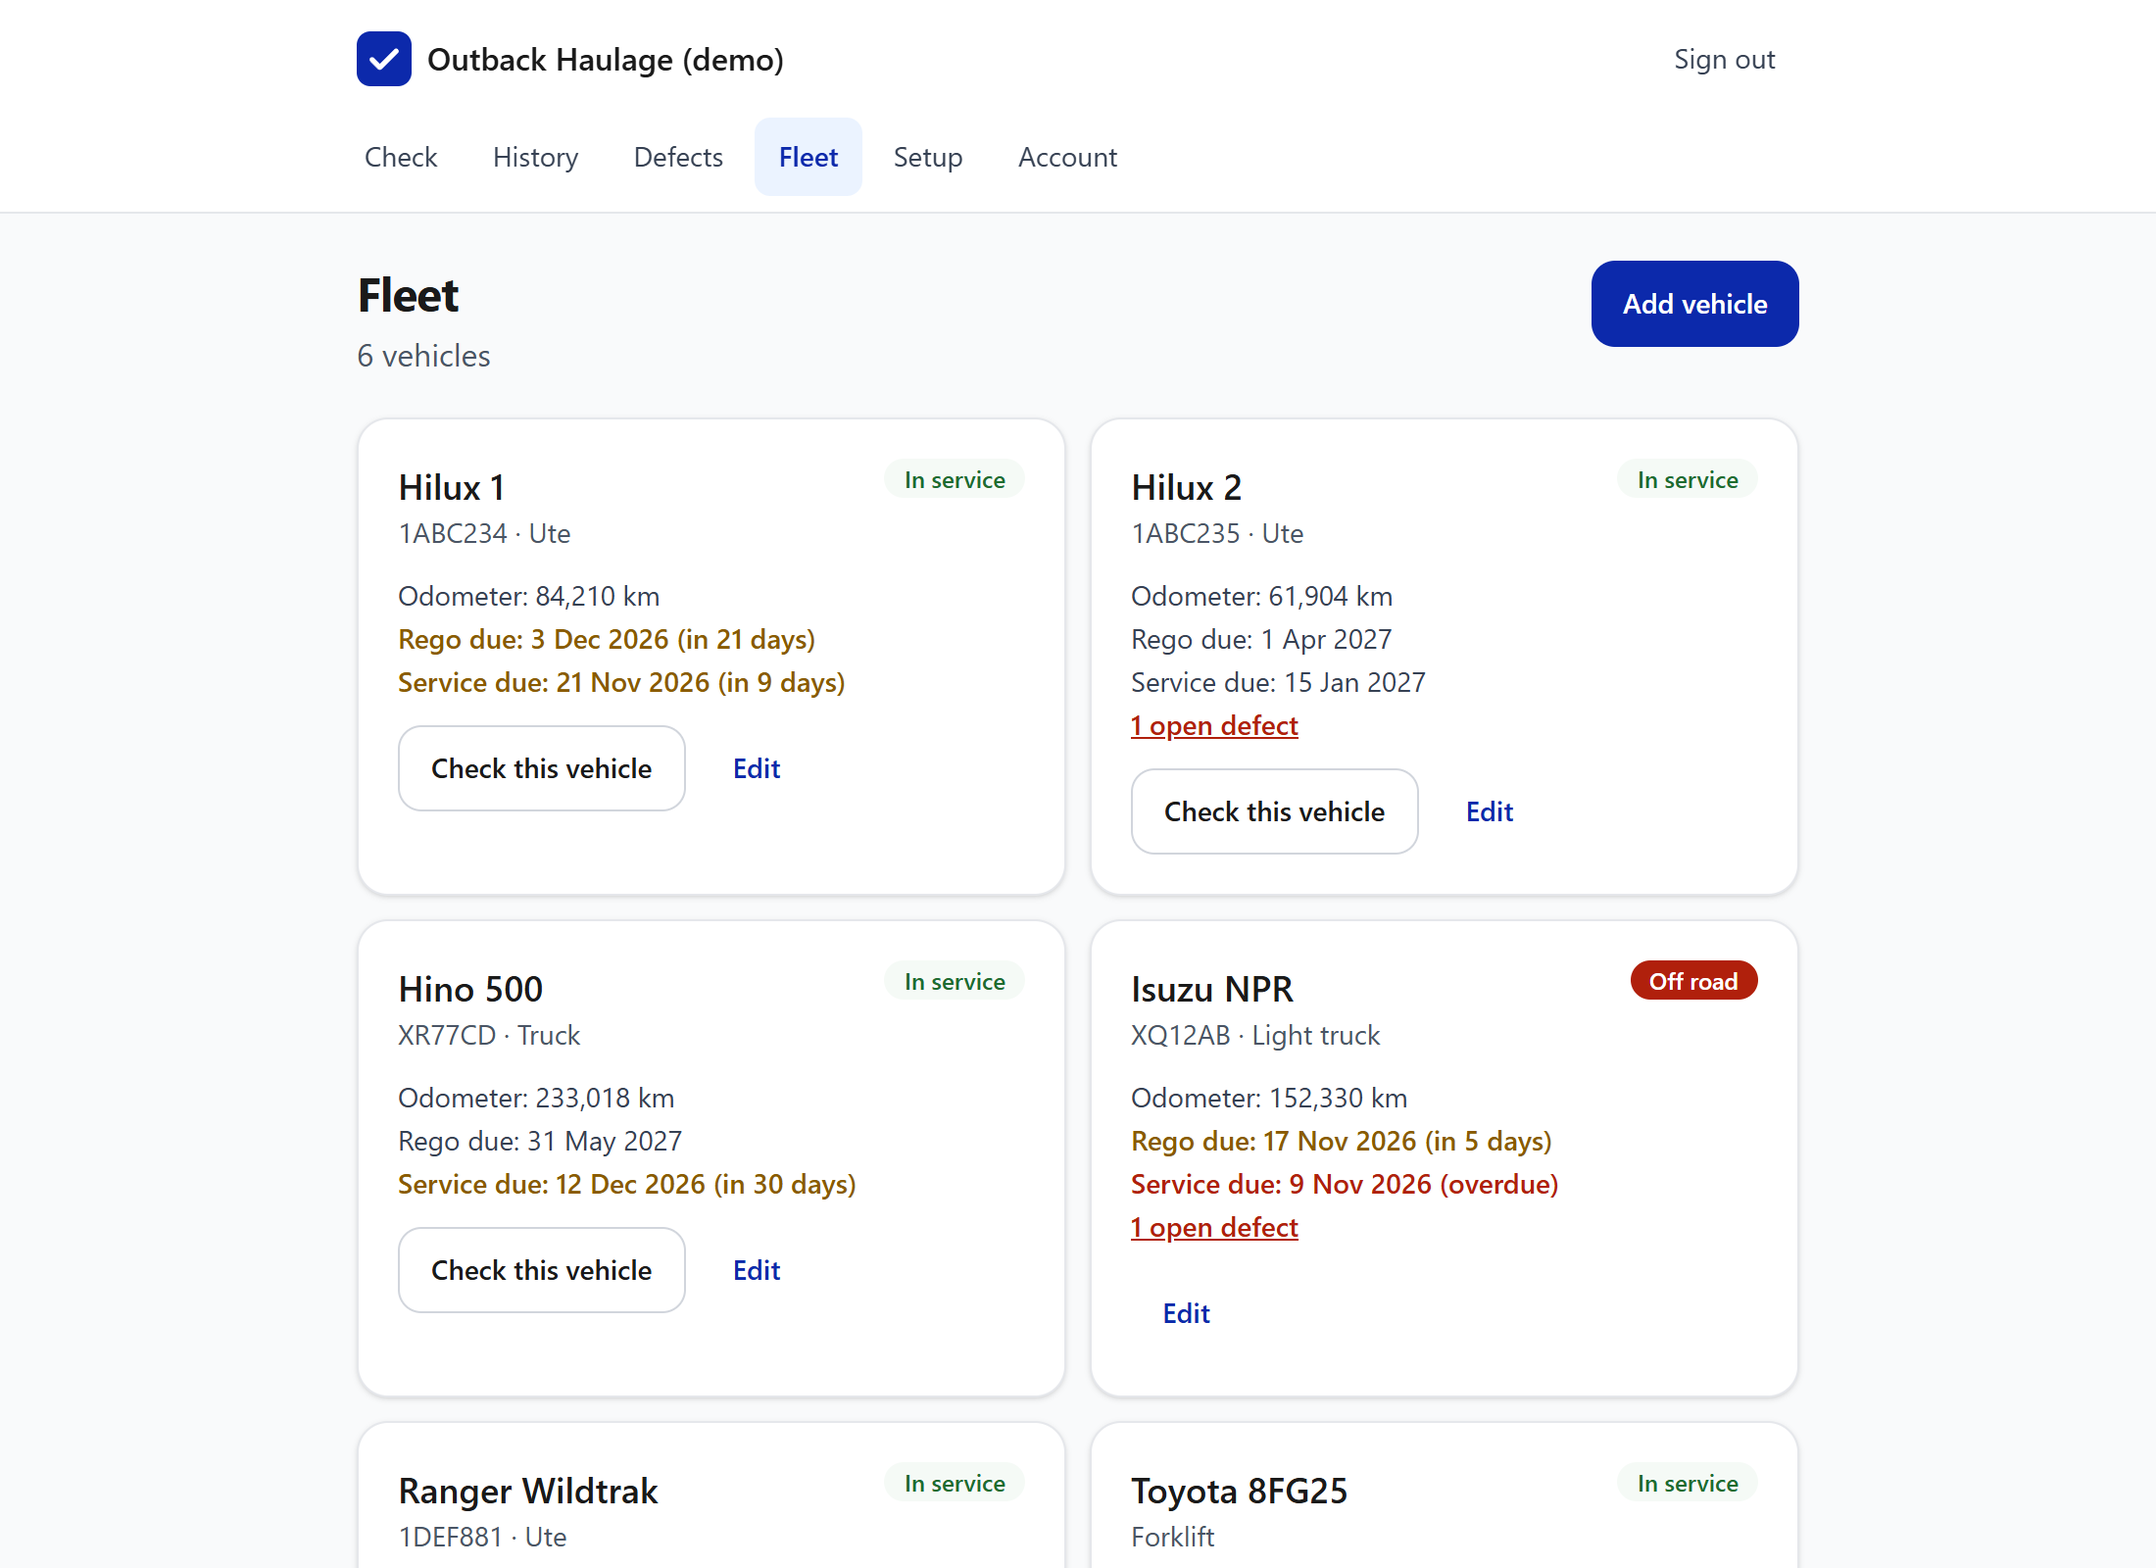
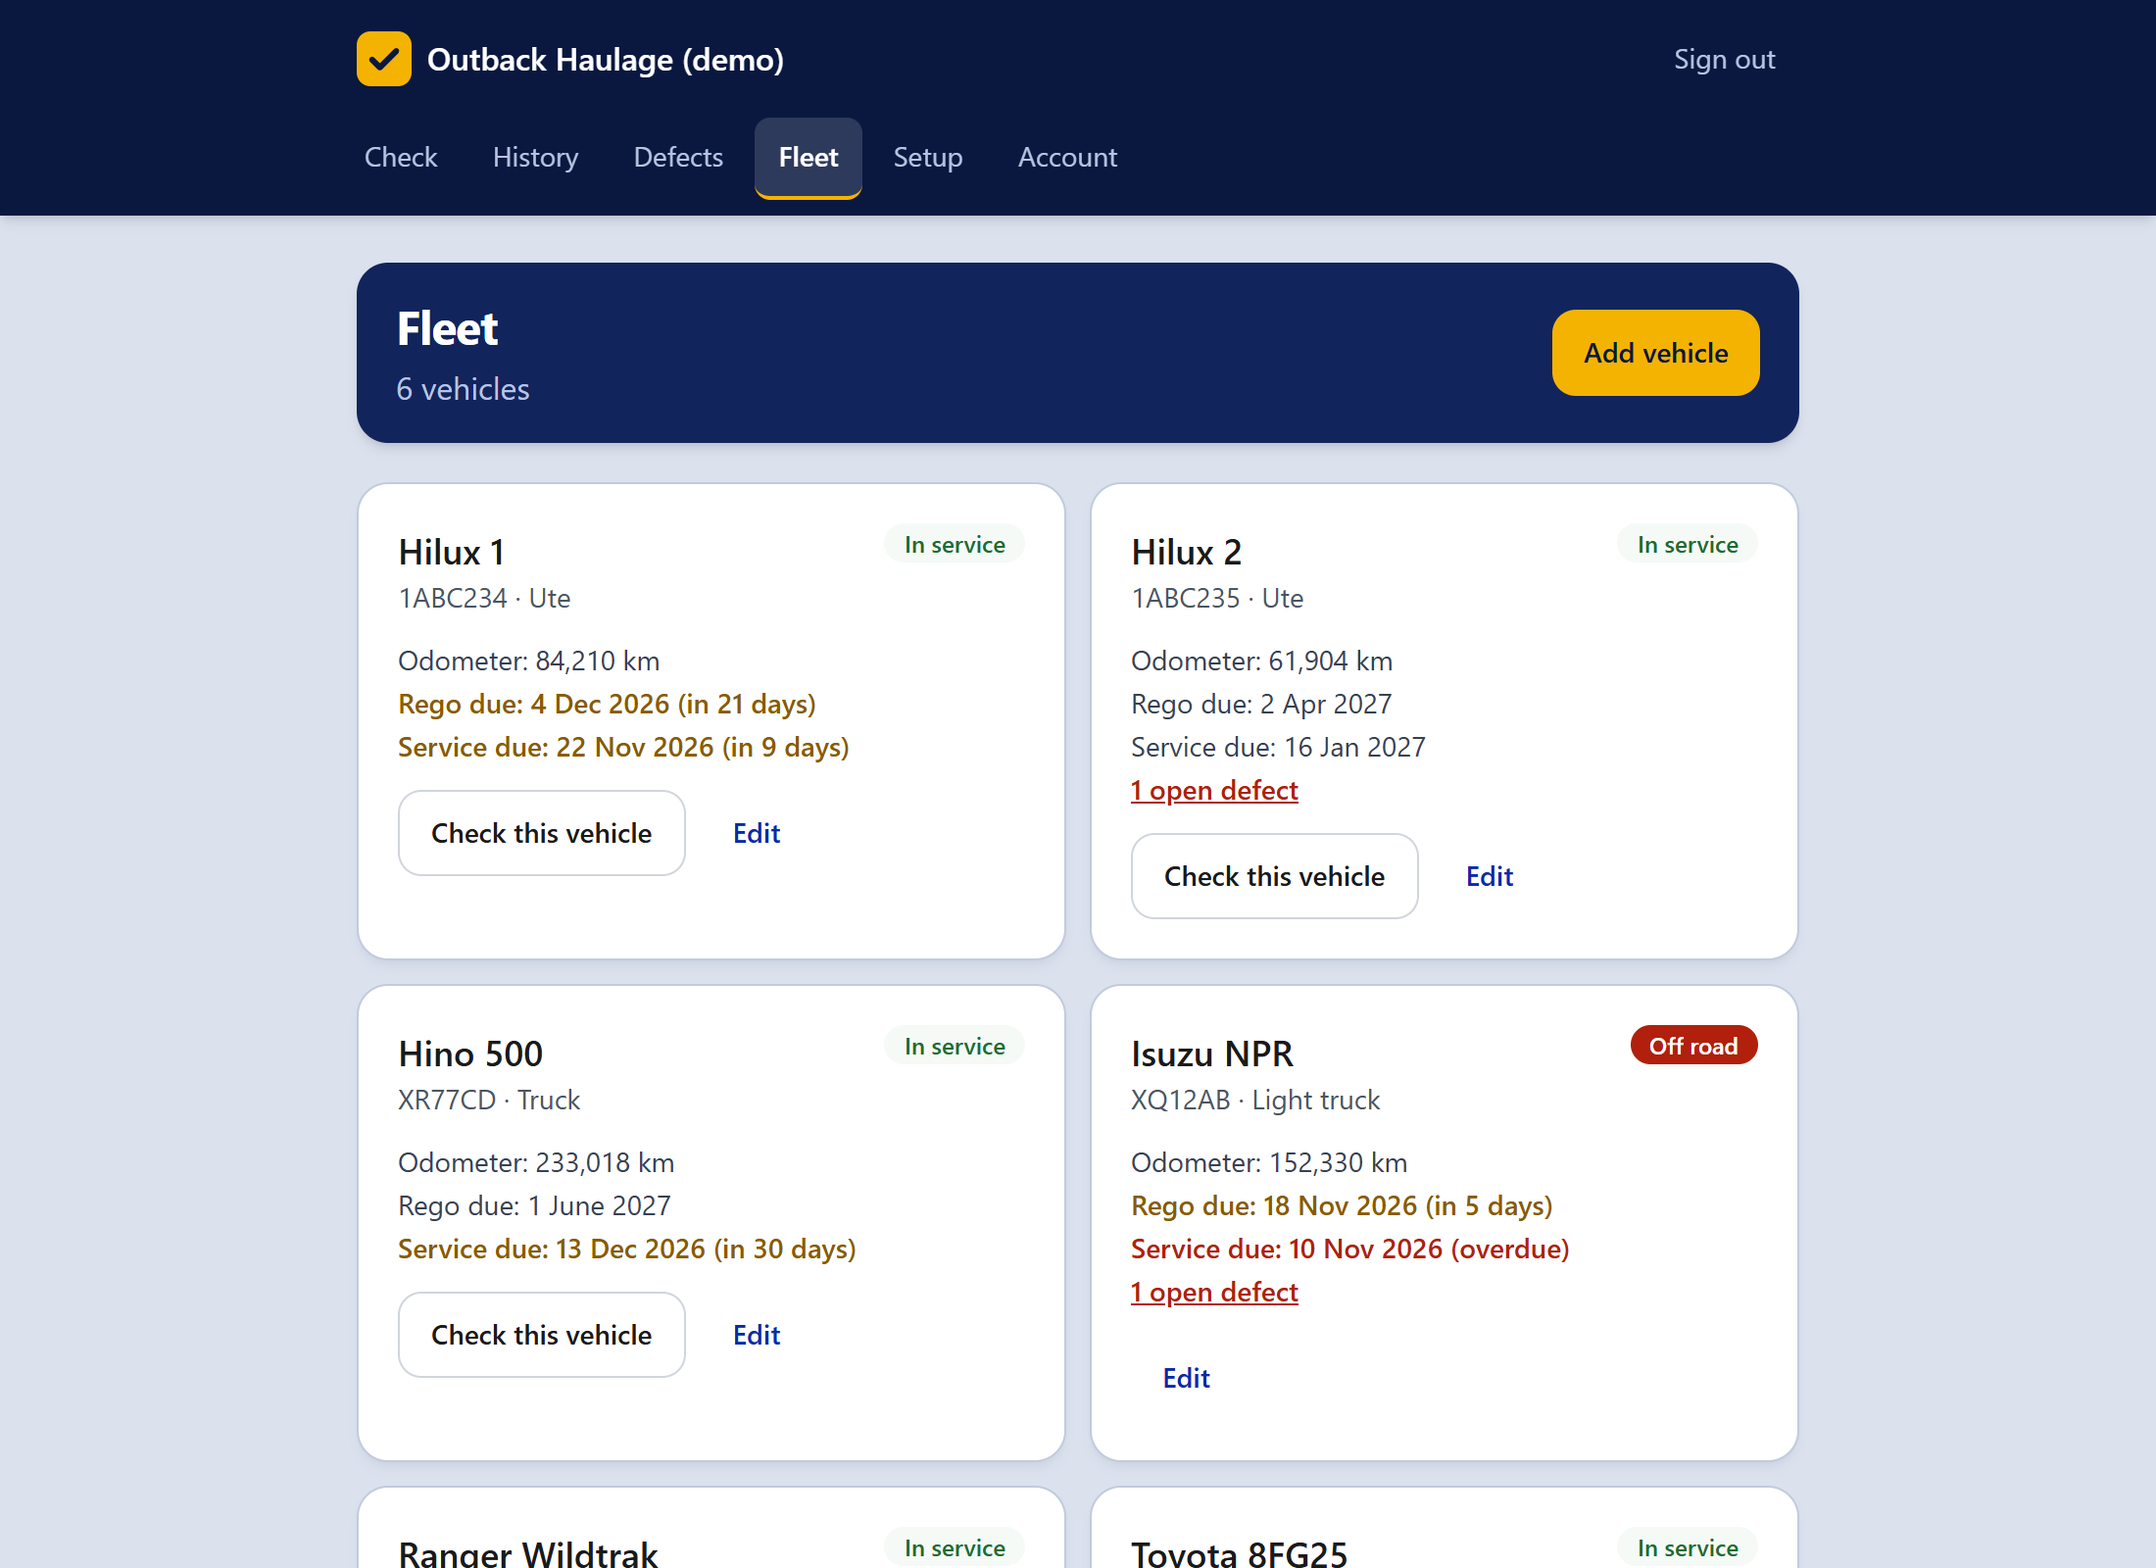
Bolder, darker design
Navy header and title banners, a safety-yellow accent and logo, a tinted page
background and stronger cards, so the app reads clearly outdoors and looks less
plain. Fleet uses the same title banner, with Add vehicle as a yellow button.
README screenshots are recaptured with `npm run screenshots`.

diff --git a/src/views/layout.tsx b/src/views/layout.tsx
@@ -40,14 +40,14 @@ export const Page: FC<PageProps> = ({ title, user, active, businessName, csrf, d
       <head>
         <meta charset="utf-8" />
         <meta name="viewport" content="width=device-width, initial-scale=1, viewport-fit=cover" />
-        <meta name="theme-color" content="#0c29ab" />
+        <meta name="theme-color" content="#0a1840" />
         <meta name="robots" content="noindex" />
         <title>{`${title} | ${businessName ?? words.appName}`}</title>
         <link rel="icon" href="/favicon.svg" type="image/svg+xml" />
         <link rel="stylesheet" href="/styles.css" />
         <script src="/app.js" defer></script>
       </head>
-      <body class="min-h-dvh bg-gray-50 text-ink antialiased">
+      <body class="min-h-dvh bg-canvas text-ink antialiased">
         <a
           href="#main"
           class="sr-only focus:not-sr-only focus:absolute focus:left-2 focus:top-2 focus:z-50 focus:rounded focus:bg-white focus:px-3 focus:py-2"
@@ -55,7 +55,7 @@ export const Page: FC<PageProps> = ({ title, user, active, businessName, csrf, d
           Skip to content
         </a>
         {demo ? (
-          <div class="bg-alert-50 px-4 py-2 text-center text-sm text-ink">
+          <div class="bg-accent px-4 py-2 text-center text-sm font-medium text-navy">
             Demo mode. Anything you change is wiped every night.
           </div>
         ) : null}
@@ -77,16 +77,16 @@ const Header: FC<{
 }> = ({ user, active, businessName, csrf }) => {
   const links = user && user.role ? NAV.filter((l) => l.show(user)) : [];
   return (
-    <header class="sticky top-0 z-40 border-b border-gray-200 bg-white/95 backdrop-blur">
+    <header class="sticky top-0 z-40 bg-navy text-white shadow-md">
       <div class="mx-auto flex max-w-3xl items-center justify-between gap-3 px-4 py-3">
-        <a href="/" class="flex min-w-0 items-center gap-2 font-semibold text-ink">
+        <a href="/" class="flex min-w-0 items-center gap-2 font-semibold text-white">
           <Logo />
           <span class="truncate">{businessName ?? words.appName}</span>
         </a>
         {user ? (
           <form method="post" action="/logout" class="shrink-0">
             <input type="hidden" name={CSRF_FIELD} value={csrf} />
-            <button type="submit" class="rounded-lg px-3 py-2 text-sm text-gray-700 hover:bg-gray-100">
+            <button type="submit" class="rounded-lg px-3 py-2 text-sm text-navy-200 hover:bg-white/10 hover:text-white">
               Sign out
             </button>
           </form>
@@ -102,8 +102,8 @@ const Header: FC<{
                   aria-current={active === l.key ? "page" : undefined}
                   class={
                     active === l.key
-                      ? "block whitespace-nowrap rounded-lg bg-primary-100 px-1 py-2.5 text-center text-[13px] font-semibold text-primary sm:px-3 sm:text-sm"
-                      : "block whitespace-nowrap rounded-lg px-1 py-2.5 text-center text-[13px] text-gray-700 hover:bg-gray-100 sm:px-3 sm:text-sm"
+                      ? "block whitespace-nowrap rounded-lg border-b-2 border-accent bg-white/15 px-1 py-2.5 text-center text-[13px] font-semibold text-white sm:px-3 sm:text-sm"
+                      : "block whitespace-nowrap rounded-lg border-b-2 border-transparent px-1 py-2.5 text-center text-[13px] text-navy-200 hover:bg-white/10 hover:text-white sm:px-3 sm:text-sm"
                   }
                 >
                   {l.label}
@@ -124,12 +124,12 @@ const Header: FC<{
 
 export const Logo: FC = () => (
   <svg width="28" height="28" viewBox="0 0 32 32" aria-hidden="true" class="shrink-0">
-    <rect width="32" height="32" rx="8" fill="#0c29ab" />
+    <rect width="32" height="32" rx="8" fill="#f5b301" />
     <path
       d="M9 16.5l4.5 4.5L23 11.5"
       fill="none"
-      stroke="#fff"
-      stroke-width="3"
+      stroke="#0a1840"
+      stroke-width="3.5"
       stroke-linecap="round"
       stroke-linejoin="round"
     />

diff --git a/src/views/components.tsx b/src/views/components.tsx
@@ -5,23 +5,29 @@ import { defectStatusLabel, severityLabel, vehicleStatusLabel } from "../labels"
 
 export const Csrf: FC<{ token: string }> = ({ token }) => <input type="hidden" name={CSRF_FIELD} value={token} />;
 
-export const H1: FC<{ children?: Child; sub?: string | undefined }> = ({ children, sub }) => (
-  <div class="mb-5">
-    <h1 class="text-2xl font-bold tracking-tight">{children}</h1>
-    {sub ? <p class="mt-1 text-gray-600">{sub}</p> : null}
+/** Page title banner. `action` is an optional button shown on the right, such as "Add vehicle". */
+export const H1: FC<{ children?: Child; sub?: string | undefined; action?: Child }> = ({ children, sub, action }) => (
+  <div class="mb-5 flex flex-wrap items-center justify-between gap-3 rounded-2xl bg-navy-800 px-5 py-4 text-white shadow-md">
+    <div class="min-w-0">
+      <h1 class="text-2xl font-bold tracking-tight">{children}</h1>
+      {sub ? <p class="mt-1 text-navy-200">{sub}</p> : null}
+    </div>
+    {action ?? null}
   </div>
 );
 
 export const Card: FC<{ children?: Child; class?: string; id?: string }> = (props) => (
   <section
     id={props.id}
-    class={`rounded-2xl border border-gray-200 bg-white p-4 shadow-sm sm:p-5 ${props.class ?? ""}`}
+    class={`rounded-2xl border border-line bg-white p-4 shadow-md shadow-navy/5 sm:p-5 ${props.class ?? ""}`}
   >
     {props.children}
   </section>
 );
 
-export const H2: FC<{ children?: Child }> = ({ children }) => <h2 class="mb-3 text-lg font-semibold">{children}</h2>;
+export const H2: FC<{ children?: Child }> = ({ children }) => (
+  <h2 class="mb-3 border-l-4 border-accent pl-3 text-lg font-bold text-navy">{children}</h2>
+);
 
 type Tone = "info" | "success" | "error" | "warning";
 const toneClass: Record<Tone, string> = {
@@ -126,12 +132,13 @@ export const TextArea: FC<{
   );
 };
 
-type ButtonKind = "primary" | "secondary" | "danger" | "ghost";
+type ButtonKind = "primary" | "secondary" | "danger" | "ghost" | "accent";
 const buttonClass: Record<ButtonKind, string> = {
   primary: "bg-primary text-white hover:bg-primary-dark",
   secondary: "border border-gray-300 bg-white text-ink hover:bg-gray-50",
   danger: "border border-danger-200 bg-white text-danger hover:bg-danger-50",
   ghost: "text-primary hover:bg-primary-50",
+  accent: "bg-accent text-navy hover:bg-accent-dark hover:text-white",
 };
 
 export const btn = (kind: ButtonKind = "primary", extra = "") =>
@@ -159,8 +166,8 @@ export const Button: FC<{
 );
 
 const severityTone: Record<Severity, string> = {
-  minor: "bg-gray-100 text-gray-800",
-  major: "bg-alert-100 text-ink",
+  minor: "bg-slate-200 text-slate-800",
+  major: "bg-accent text-navy",
   critical: "bg-danger text-white",
 };
 export const SeverityBadge: FC<{ severity: Severity }> = ({ severity }) => (
@@ -197,5 +204,5 @@ export const PassBadge: FC<{ passed: boolean }> = ({ passed }) => (
 );
 
 export const Empty: FC<{ children?: Child }> = ({ children }) => (
-  <div class="rounded-2xl border border-dashed border-gray-300 bg-white p-6 text-center text-gray-600">{children}</div>
+  <div class="rounded-2xl border-2 border-dashed border-line bg-white/70 p-6 text-center text-gray-700">{children}</div>
 );

diff --git a/scripts/screenshots.ts b/scripts/screenshots.ts
@@ -1,0 +1,63 @@
+/**
+ * Captures the README screenshots from a running local copy with the demo data loaded.
+ *
+ *   npm run seed:local
+ *   npx wrangler dev --port 8790        (in another terminal)
+ *   npm run screenshots
+ *
+ * Uses Microsoft Edge by default; set PW_CHANNEL=chrome to use Chrome instead.
+ */
+import { fileURLToPath } from "node:url";
+import { chromium, type Browser, type Page } from "@playwright/test";
+import { DEMO_PASSWORD } from "../src/seed/demo.ts";
+
+const BASE = process.env.BASE_URL ?? "http://127.0.0.1:8790";
+const OUT = new URL("../docs/screenshots/", import.meta.url);
+
+async function signedIn(browser: Browser, email: string, viewport: { width: number; height: number }) {
+  const context = await browser.newContext({ viewport, deviceScaleFactor: 2 });
+  const page = await context.newPage();
+  await page.goto(`${BASE}/login`);
+  await page.getByLabel("Email").fill(email);
+  await page.getByLabel("Password").fill(DEMO_PASSWORD);
+  await page.getByRole("button", { name: "Sign in" }).click();
+  await page.waitForURL((u) => !u.pathname.startsWith("/login"));
+  return page;
+}
+
+const shot = (page: Page, name: string) => page.screenshot({ path: fileURLToPath(new URL(name, OUT)) });
+
+const browser = await chromium.launch({ channel: process.env.PW_CHANNEL ?? "msedge" });
+const phone = { width: 390, height: 844 };
+const desktop = { width: 1100, height: 800 };
+
+// Daily check, with one failed item open so the severity choices show.
+const driver = await signedIn(browser, "driver@demo.prestart.example", phone);
+await driver.goto(`${BASE}/check`);
+await driver.getByLabel("Vehicle", { exact: true }).selectOption({ label: "Hilux 1 (1ABC234)" });
+await driver.getByLabel("Odometer (km)").fill("84390");
+const row = driver.locator("[data-item]").first();
+await row.getByText("Fail", { exact: true }).click();
+await row.getByLabel("What is wrong?").fill("Rear passenger door will not latch");
+await row.getByRole("radio", { name: /^Major/ }).check();
+// Scroll so the progress bar sits just under the sticky header.
+// (A string, because this script is type-checked for Node, which has no DOM types.)
+await driver.evaluate(`(() => {
+  const bar = document.querySelector("[data-progress]").closest("div");
+  const header = document.querySelector("header").getBoundingClientRect().height;
+  window.scrollTo(0, bar.getBoundingClientRect().top + window.scrollY - header - 12);
+})()`);
+await shot(driver, "check-phone.png");
+
+const workshop = await signedIn(browser, "workshop@demo.prestart.example", phone);
+await workshop.goto(`${BASE}/defects`);
+await shot(workshop, "defects-phone.png");
+
+const admin = await signedIn(browser, "admin@demo.prestart.example", desktop);
+await admin.goto(`${BASE}/fleet`);
+await shot(admin, "fleet-desktop.png");
+await admin.goto(`${BASE}/history`);
+await shot(admin, "history-desktop.png");
+
+await browser.close();
+console.log("Screenshots saved to docs/screenshots.");

diff --git a/src/routes/auth.tsx b/src/routes/auth.tsx
@@ -37,10 +37,10 @@ authRoutes.get("/", async (c) => {
     c,
     { title: "Daily vehicle checks" },
     <>
-      <div class="py-4 sm:py-8">
-        <p class="text-sm font-semibold uppercase tracking-wide text-primary">{settings.businessName}</p>
+      <div class="mb-5 rounded-3xl bg-navy px-5 py-7 text-white shadow-lg sm:px-8 sm:py-10">
+        <p class="text-sm font-semibold uppercase tracking-wide text-accent">{settings.businessName}</p>
         <h1 class="mt-2 text-3xl font-bold tracking-tight sm:text-4xl">Daily pre-start checks, done in a minute.</h1>
-        <p class="mt-3 text-lg text-gray-700">
+        <p class="mt-3 text-lg text-navy-200">
           Drivers tick the checklist before they drive. Problems go straight to the workshop. Unsafe vehicles come off
           the road until they are fixed.
         </p>
@@ -52,7 +52,7 @@ authRoutes.get("/", async (c) => {
           ["Defect queue", "The workshop sees every fault, critical ones first."],
           ["Full history", "Every check is saved with who, when and what was ticked."],
         ].map(([title, text]) => (
-          <li class="rounded-2xl border border-gray-200 bg-white p-4">
+          <li class="rounded-2xl border border-line bg-white shadow-sm p-4">
             <p class="font-semibold">{title}</p>
             <p class="mt-1 text-sm text-gray-600">{text}</p>
           </li>

diff --git a/src/routes/fleet.tsx b/src/routes/fleet.tsx
@@ -146,19 +146,18 @@ async function listPage(c: Context<AppEnv>) {
     c,
     { title: "Fleet", active: "fleet" },
     <>
-      <div class="mb-5 flex flex-wrap items-start justify-between gap-3">
-        <div>
-          <h1 class="text-2xl font-bold tracking-tight">Fleet</h1>
-          <p class="mt-1 text-gray-600">
-            {vehicles.length} {vehicles.length === 1 ? "vehicle" : "vehicles"}
-          </p>
-        </div>
-        {admin ? (
-          <a href="/fleet/new" class={btn("primary")} data-open-dialog="dialog-new">
-            Add vehicle
-          </a>
-        ) : null}
-      </div>
+      <H1
+        sub={`${vehicles.length} ${vehicles.length === 1 ? "vehicle" : "vehicles"}`}
+        action={
+          admin ? (
+            <a href="/fleet/new" class={btn("accent")} data-open-dialog="dialog-new">
+              Add vehicle
+            </a>
+          ) : undefined
+        }
+      >
+        Fleet
+      </H1>
       {msg ? <Alert tone="success">{msg}</Alert> : null}
       {vehicles.length === 0 ? (
         <Empty>{admin ? "No vehicles yet. Add your first one." : "No vehicles yet. An admin can add them."}</Empty>

diff --git a/src/routes/defects.tsx b/src/routes/defects.tsx
@@ -119,7 +119,7 @@ async function page(c: Context<AppEnv>, error?: string, status: 200 | 400 | 409 
           <summary class="cursor-pointer font-semibold">Recently fixed</summary>
           <ul class="mt-3 space-y-2">
             {fixed.map((d) => (
-              <li class="rounded-2xl border border-gray-200 bg-white p-4">
+              <li class="rounded-2xl border border-line bg-white shadow-sm p-4">
                 <div class="flex flex-wrap items-center gap-2">
                   <SeverityBadge severity={d.severity} />
                   <span class="font-semibold">{d.vehicleName}</span>

diff --git a/src/styles/input.css b/src/styles/input.css
@@ -20,6 +20,16 @@
   --color-alert-100: #fff4db;
   --color-alert-200: #ffdc8a;
   --color-alert-700: #8a5a00;
+  /* Darker surfaces: header, title banners and the page background. */
+  --color-navy: #0a1840;
+  --color-navy-800: #12245c;
+  --color-navy-700: #1c3278;
+  --color-navy-200: #b9c4e2;
+  --color-canvas: #dbe2ee;
+  --color-line: #c2cbdc;
+  /* Safety yellow accent. */
+  --color-accent: #f5b301;
+  --color-accent-dark: #b98500;
   --font-sans: system-ui, -apple-system, "Segoe UI", Roboto, "Helvetica Neue", Arial, sans-serif;
 }
 
